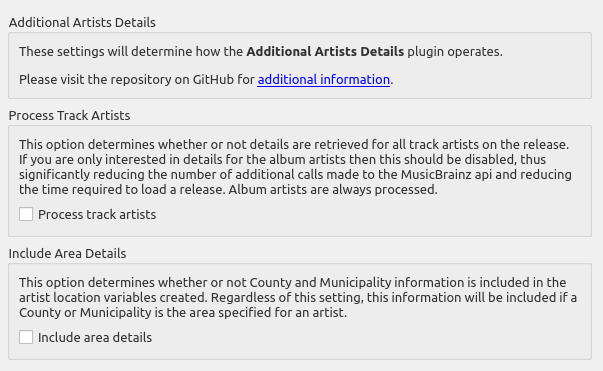
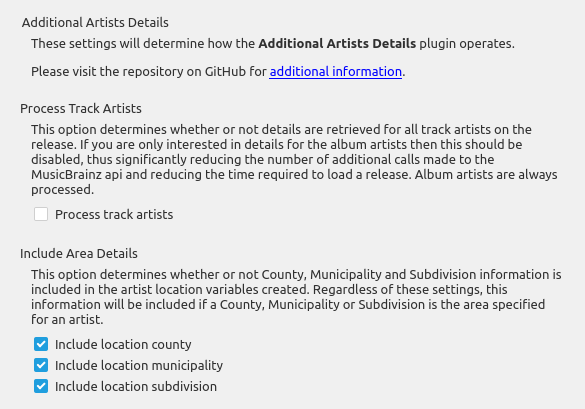
Ensure all areas are processed before finalizing metadata.
- Track the number of outstanding area requests
- Don't finalize until no outstanding area requests
- Add options for omitting some specific area types
- General cleanup
- Update README image for new option settings

Changed region(s): [[0.0, 0.0296, 0.9538, 0.5337], [0.0, 0.5633, 0.9538, 0.9784]]

diff --git a/plugins/additional_artists_details/__init__.py b/plugins/additional_artists_details/__init__.py
@@ -23,6 +23,7 @@
 # pylint: disable=too-many-arguments
 # pylint: disable=too-many-locals
 
+
 from collections import namedtuple
 from functools import partial
 
@@ -39,12 +40,11 @@ from picard.plugin import PluginPriority
 from picard.plugins.additional_artists_details.ui_options_additional_artists_details import (
     Ui_AdditionalArtistsDetailsOptionsPage,
 )
-from picard.webservice.api_helpers import MBAPIHelper
-
 from picard.ui.options import (
     OptionsPage,
     register_options_page,
 )
+from picard.webservice.api_helpers import MBAPIHelper
 
 
 PLUGIN_NAME = 'Additional Artists Details'
@@ -58,7 +58,7 @@ artist processing, which can significantly increase the processing speed if you 
 Please see the <a href="https://github.com/rdswift/picard-plugins/blob/2.0_RDS_Plugins/plugins/additional_artists_details/docs/README.md">user
 guide</a> on GitHub for more information.
 '''
-PLUGIN_VERSION = '0.5'
+PLUGIN_VERSION = '0.6'
 PLUGIN_API_VERSIONS = ['2.0', '2.1', '2.2', '2.7', '2.8', '2.11']
 PLUGIN_LICENSE = 'GPL-2.0-or-later'
 PLUGIN_LICENSE_URL = 'https://www.gnu.org/licenses/gpl-2.0.html'
@@ -76,9 +76,9 @@ RELATIONSHIP_TYPE_PART_OF = 'de7cc874-8b1b-3a05-8272-f3834c968fb7'
 AREA_TYPE_COUNTRY = '06dd0ae4-8c74-30bb-b43d-95dcedf961de'
 AREA_TYPE_COUNTY = 'bcecec27-8bdb-3e00-8254-d948dda502fa'
 AREA_TYPE_MUNICIPALITY = '17246454-5ac4-36a1-b81a-4753eb2dab20'
+AREA_TYPE_SUBDIVISION = 'fd3d44c5-80a1-3842-9745-2c4972d35afa'
 
-# Area types to exclude from the location string
-EXCLUDE_AREA_TYPES = {AREA_TYPE_MUNICIPALITY, AREA_TYPE_COUNTY}
+CONDITIONAL_LOCATIONS = {AREA_TYPE_COUNTY, AREA_TYPE_MUNICIPALITY, AREA_TYPE_SUBDIVISION}
 
 # Standard text for arguments
 ALBUM_ARTISTS = 'album_artists'
@@ -88,7 +88,9 @@ AREA = 'area'
 AREA_REQUESTS = 'area_requests'
 ISO_CODES_1 = 'iso-3166-1-codes'
 ISO_CODES_2 = 'iso-3166-2-codes'
-OPT_AREA_DETAILS = 'aad_area_details'
+OPT_AREA_COUNTY = 'aad_area_county'
+OPT_AREA_MUNICIPALITY = 'aad_area_municipality'
+OPT_AREA_SUBDIVISION = 'aad_area_subdivision'
 OPT_PROCESS_TRACKS = 'aad_process_tracks'
 TRACKS = 'tracks'
 
@@ -153,6 +155,10 @@ class CustomHelper(MBAPIHelper):
 class ArtistDetailsPlugin:
     """Plugin to retrieve artist details, including area and country information.
     """
+
+    # Area types to exclude from the location string
+    EXCLUDE_AREA_TYPES = {AREA_TYPE_MUNICIPALITY, AREA_TYPE_COUNTY, AREA_TYPE_SUBDIVISION}
+
     result_cache = {
         ARTIST: {},
         ARTIST_REQUESTS: set(),
@@ -161,6 +167,21 @@ class ArtistDetailsPlugin:
     }
     album_processing_count = {}
     albums = {}
+    album_area_requests = {}
+
+    def _add_album_area_request(self, album_id, area_id):
+        if album_id not in self.album_area_requests:
+            self.album_area_requests[album_id] = set()
+        self.album_area_requests[album_id].add(area_id)
+
+    def _remove_album_area_request(self, album_id, area_id):
+        if album_id in self.album_area_requests:
+            self.album_area_requests[album_id].discard(area_id)
+
+    def _get_album_area_request_count(self, album_id):
+        if album_id not in self.album_area_requests:
+            return 0
+        return len(self.album_area_requests[album_id])
 
     def _make_empty_target(self, album_id):
         """Create an empty album target node if it doesn't exist.
@@ -213,7 +234,9 @@ class ArtistDetailsPlugin:
             self.album_processing_count[album.id] = 1
         self.album_processing_count[album.id] -= 1
         album._requests -= 1
-        album._finalize_loading(None)   # pylint: disable=protected-access
+        if self._get_album_area_request_count(album.id) < 1:
+            self._save_artist_metadata(album.id)
+            album._finalize_loading(None)   # pylint: disable=protected-access
 
     def remove_album(self, album):
         """Remove the album from the albums processing dictionary.
@@ -293,6 +316,8 @@ class ArtistDetailsPlugin:
         """
         if album_id in self.album_processing_count and self.album_processing_count[album_id]:
             return
+        if self._get_album_area_request_count(album_id) > 0:
+            return
         if album_id not in self.albums or not self.albums[album_id][TRACKS]:
             log.error(*log_helper("No metadata targets found for album '%s'", album_id))
             return
@@ -365,7 +390,6 @@ class ArtistDetailsPlugin:
             self.result_cache[ARTIST][artist] = artist_info
         finally:
             self._album_remove_request(album)
-            self._save_artist_metadata(album.id)
 
     def _get_area_info(self, area_id, album):
         """Gets the area information from the MusicBrainz website.
@@ -376,6 +400,7 @@ class ArtistDetailsPlugin:
         """
         self.result_cache[AREA_REQUESTS].add(area_id)
         self._album_add_request(album)
+        self._add_album_area_request(album.id, area_id)
         log.debug(*log_helper('Retrieving area ID %s from MusicBrainz.', area_id))
         helper = CustomHelper(album.tagger.webservice)
         handler = partial(
@@ -400,8 +425,8 @@ class ArtistDetailsPlugin:
                 for rel in document['relations']:
                     self._parse_area_relation(_id, rel, album, name, _type, type_text)
         finally:
+            self._remove_album_area_request(album.id, area)
             self._album_remove_request(album)
-            self._save_artist_metadata(album.id)
 
     @staticmethod
     def _area_logger(area_id, area_name, area_type):
@@ -431,24 +456,26 @@ class ArtistDetailsPlugin:
         if not _id:
             return
 
+        def _add_country(_id, name, country, _type, type_text):
+            if _id not in self.result_cache[AREA]:
+                self._area_logger(_id, f"{name} ({country})", type_text)
+                self.result_cache[AREA][_id] = Area('', name, country, _type, type_text)
+                self.result_cache[AREA_REQUESTS].add(_id)
+
         if 'direction' in area_relation and area_relation['direction'] == 'backward':
             if area_id not in self.result_cache[AREA]:
                 self._area_logger(area_id, area_name, area_type_text)
                 self.result_cache[AREA][area_id] = Area(_id, area_name, '', area_type, type_text)
                 self.result_cache[AREA_REQUESTS].add(area_id)
             if _type == AREA_TYPE_COUNTRY:
-                if _id not in self.result_cache[AREA]:
-                    self._area_logger(_id, f"{name} ({country})", type_text)
-                    self.result_cache[AREA][_id] = Area('', name, country, _type, type_text)
-                    self.result_cache[AREA_REQUESTS].add(_id)
+                _add_country(_id, name, country, _type, type_text)
             else:
                 if _id not in self.result_cache[AREA] and _id not in self.result_cache[AREA_REQUESTS]:
                     self._get_area_info(_id, album)
+
         elif 'direction' in area_relation and area_relation['direction'] == 'forward' and _type == AREA_TYPE_COUNTRY:
-            if _id not in self.result_cache[AREA]:
-                self._area_logger(_id, f"{name} ({country})", type_text)
-                self.result_cache[AREA][_id] = Area('', name, country, _type, type_text)
-                self.result_cache[AREA_REQUESTS].add(_id)
+            _add_country(_id, name, country, _type, type_text)
+
         else:
             self._area_logger(_id, name, type_text)
             self.result_cache[AREA_REQUESTS].add(_id)
@@ -499,6 +526,7 @@ class ArtistDetailsPlugin:
         Returns:
             tuple: The two-character country code and full location description for the area.
         """
+        # pylint: disable=too-many-boolean-expressions
         country = ''
         location = []
         i = 7   # Counter to avoid potential runaway processing
@@ -507,8 +535,15 @@ class ArtistDetailsPlugin:
             area = self.result_cache[AREA][area_id] if area_id in self.result_cache[AREA] else Area('', '', '', '', '')
             country = area.country
             area_id = area.parent
-            if not location or config.setting[OPT_AREA_DETAILS] or area.type not in EXCLUDE_AREA_TYPES:
+            if not location or area.type not in CONDITIONAL_LOCATIONS:
                 location.append(area.name)
+            else:
+                if (
+                    (area.type == AREA_TYPE_COUNTY and config.setting[OPT_AREA_COUNTY]) or
+                    (area.type == AREA_TYPE_MUNICIPALITY and config.setting[OPT_AREA_MUNICIPALITY]) or
+                    (area.type == AREA_TYPE_SUBDIVISION and config.setting[OPT_AREA_SUBDIVISION])
+                ):
+                    location.append(area.name)
         return country, ', '.join(location)
 
 
@@ -522,7 +557,9 @@ class AdditionalArtistsDetailsOptionsPage(OptionsPage):
 
     options = [
         config.BoolOption('setting', OPT_PROCESS_TRACKS, False),
-        config.BoolOption('setting', OPT_AREA_DETAILS, False),
+        config.BoolOption('setting', OPT_AREA_COUNTY, True),
+        config.BoolOption('setting', OPT_AREA_MUNICIPALITY, True),
+        config.BoolOption('setting', OPT_AREA_SUBDIVISION, True),
     ]
 
     def __init__(self, parent=None):
@@ -537,14 +574,18 @@ class AdditionalArtistsDetailsOptionsPage(OptionsPage):
         """Load the option settings.
         """
         self.ui.cb_process_tracks.setChecked(config.setting[OPT_PROCESS_TRACKS])
-        self.ui.cb_area_details.setChecked(config.setting[OPT_AREA_DETAILS])
+        self.ui.cb_area_county.setChecked(config.setting[OPT_AREA_COUNTY])
+        self.ui.cb_area_municipality.setChecked(config.setting[OPT_AREA_MUNICIPALITY])
+        self.ui.cb_area_subdivision.setChecked(config.setting[OPT_AREA_SUBDIVISION])
 
     def save(self):
         """Save the option settings.
         """
         # self._set_settings(config.setting)
         config.setting[OPT_PROCESS_TRACKS] = self.ui.cb_process_tracks.isChecked()
-        config.setting[OPT_AREA_DETAILS] = self.ui.cb_area_details.isChecked()
+        config.setting[OPT_AREA_COUNTY] = self.ui.cb_area_county.isChecked()
+        config.setting[OPT_AREA_MUNICIPALITY] = self.ui.cb_area_municipality.isChecked()
+        config.setting[OPT_AREA_SUBDIVISION] = self.ui.cb_area_subdivision.isChecked()
 
 
 plugin = ArtistDetailsPlugin()

diff --git a/plugins/additional_artists_details/ui_options_additional_artists_details.py b/plugins/additional_artists_details/ui_options_additional_artists_details.py
@@ -61,9 +61,20 @@ class Ui_AdditionalArtistsDetailsOptionsPage(object):
         self.label_2.setWordWrap(True)
         self.label_2.setObjectName("label_2")
         self.verticalLayout_5.addWidget(self.label_2)
-        self.cb_area_details = QtWidgets.QCheckBox(self.gb_area_details)
-        self.cb_area_details.setObjectName("cb_area_details")
-        self.verticalLayout_5.addWidget(self.cb_area_details)
+        self.verticalLayout_6 = QtWidgets.QVBoxLayout()
+        self.verticalLayout_6.setContentsMargins(-1, 0, -1, -1)
+        self.verticalLayout_6.setSpacing(0)
+        self.verticalLayout_6.setObjectName("verticalLayout_6")
+        self.cb_area_county = QtWidgets.QCheckBox(self.gb_area_details)
+        self.cb_area_county.setObjectName("cb_area_county")
+        self.verticalLayout_6.addWidget(self.cb_area_county)
+        self.cb_area_municipality = QtWidgets.QCheckBox(self.gb_area_details)
+        self.cb_area_municipality.setObjectName("cb_area_municipality")
+        self.verticalLayout_6.addWidget(self.cb_area_municipality)
+        self.cb_area_subdivision = QtWidgets.QCheckBox(self.gb_area_details)
+        self.cb_area_subdivision.setObjectName("cb_area_subdivision")
+        self.verticalLayout_6.addWidget(self.cb_area_subdivision)
+        self.verticalLayout_5.addLayout(self.verticalLayout_6)
         self.verticalLayout_2.addWidget(self.gb_area_details)
         spacerItem = QtWidgets.QSpacerItem(20, 40, QtWidgets.QSizePolicy.Minimum, QtWidgets.QSizePolicy.Expanding)
         self.verticalLayout_2.addItem(spacerItem)
@@ -82,5 +93,7 @@ class Ui_AdditionalArtistsDetailsOptionsPage(object):
         self.label.setText(_translate("AdditionalArtistsDetailsOptionsPage", "<html><head/><body><p>This option determines whether or not details are retrieved for all track artists on the release. If you are only interested in details for the album artists then this should be disabled, thus significantly reducing the number of additional calls made to the MusicBrainz api and reducing the time required to load a release.  Album artists are always processed.</p></body></html>"))
         self.cb_process_tracks.setText(_translate("AdditionalArtistsDetailsOptionsPage", "Process track artists"))
         self.gb_area_details.setTitle(_translate("AdditionalArtistsDetailsOptionsPage", "Include Area Details"))
-        self.label_2.setText(_translate("AdditionalArtistsDetailsOptionsPage", "<html><head/><body><p>This option determines whether or not County and Municipality information is included in the artist location variables created. Regardless of this setting, this information will be included if a County or Municipality is the area specified for an artist.</p></body></html>"))
-        self.cb_area_details.setText(_translate("AdditionalArtistsDetailsOptionsPage", "Include area details"))
+        self.label_2.setText(_translate("AdditionalArtistsDetailsOptionsPage", "<html><head/><body><p>This option determines whether or not County, Municipality and Subdivision information is included in the artist location variables created. Regardless of these settings, this information will be included if a County, Municipality or Subdivision is the area specified for an artist.</p></body></html>"))
+        self.cb_area_county.setText(_translate("AdditionalArtistsDetailsOptionsPage", "Include location county"))
+        self.cb_area_municipality.setText(_translate("AdditionalArtistsDetailsOptionsPage", "Include location municipality"))
+        self.cb_area_subdivision.setText(_translate("AdditionalArtistsDetailsOptionsPage", "Include location subdivision"))
